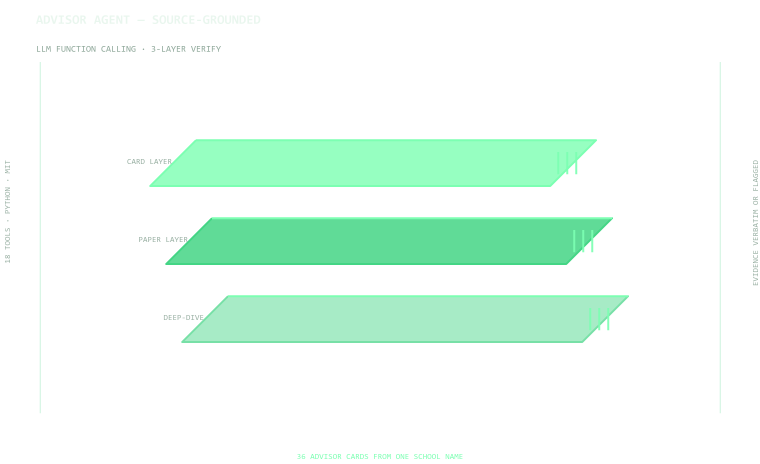
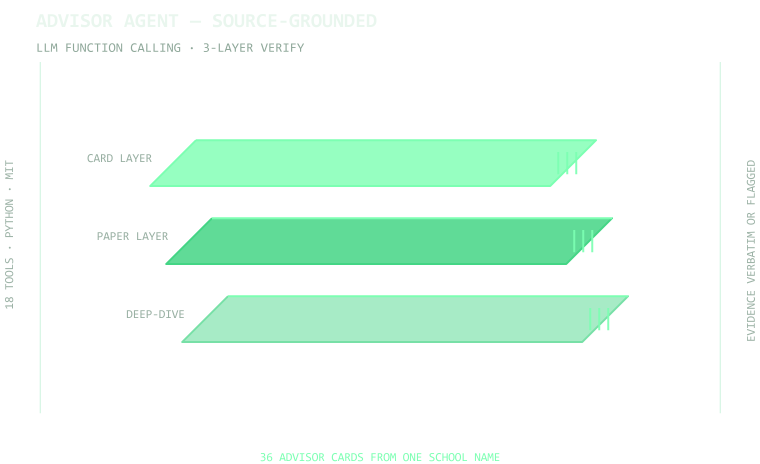
对齐配图字号与层标签间距：标题墨高 14px 与既有配图一致，标签与色板保持 23px 间隙且无像素相交

diff --git a/tools/make_fig_advisor.py b/tools/make_fig_advisor.py
@@ -76,6 +76,20 @@ def vtext(text, f, fill):
     return tile.rotate(90, expand=True)
 
 
+def label_tile(text, f, fill):
+    """把一段文字渲染成紧贴墨迹的图块，返回 (tile, 墨迹 bbox)。"""
+    pad = s(4)
+    box = f.getbbox(text)
+    tile = Image.new("RGBA", (box[2] - box[0] + 2 * pad, box[3] - box[1] + 2 * pad), (0, 0, 0, 0))
+    ImageDraw.Draw(tile).text((pad - box[0], pad - box[1]), text, font=f, fill=fill)
+    return tile, tile.getbbox()
+
+
+def plate_left_ss(i, y_ss):
+    """第 i 层色板左斜边在高度 y_ss 处的 x（超采样坐标）。"""
+    return s(196 + 16 * i) - (y_ss - s(140 + 78 * i))
+
+
 def downscale(img):
     """4x4 块均值降采样（浮点预乘，数学上精确复原色板值）。
 
@@ -125,32 +139,45 @@ def main():
             img, ticks(L["y"], x0, 400, 46, 46, EM_HI + (235,))
         )
 
+    # 字号按参照图实测的"墨高"标定（fig-bear 标题行高 13px、副标题 9px、注释 8px）；
+    # Consolas 大写字母墨高约 0.64em，故 20px→13px、13px→8px、12px→7.6px。
+    TITLE_PX, SUB_PX, SMALL_PX = 20, 13, 12
+
     # ---- 文字 ----
     txt = Image.new("RGBA", img.size, (0, 0, 0, 0))
     d = ImageDraw.Draw(txt)
 
     # 左上两行标题
-    draw_text(d, (36, 14), "ADVISOR AGENT — SOURCE-GROUNDED", font(FONT_B, 13), INK)
-    draw_text(d, (36, 45), "LLM FUNCTION CALLING · 3-LAYER VERIFY", font(FONT, 9), DIM)
+    draw_text(d, (36, 12), "ADVISOR AGENT — SOURCE-GROUNDED", font(FONT_B, TITLE_PX), INK)
+    draw_text(d, (36, 42), "LLM FUNCTION CALLING · 3-LAYER VERIFY", font(FONT, SUB_PX), DIM)
 
-    # 每层左侧的小标签（右对齐到版心细线内侧）
+    # 每层左侧的小标签：按"实际墨迹边缘"定位，保证标签底端与色板斜边仍有充足间隙。
+    # 注意 getbbox 不含抗锯齿晕边，且斜边在标签底端处最靠右，故按底端 + 晕边余量再退
+    # GAP_PX，确保视觉上不贴边。
+    GAP_PX = 22
     for i, L in enumerate(layers):
-        draw_text(d, (172 + i * 16, L["y"] + 18), L["label"], font(FONT, 8), DIM + (230,), anchor="ra")
+        tile, ink = label_tile(L["label"], font(FONT, SMALL_PX), DIM + (235,))
+        ink_h = ink[3] - ink[1]
+        target_top = s(L["y"] + 18) - ink_h // 2          # 墨迹垂直居中于该层
+        target_bottom = target_top + ink_h
+        target_right = plate_left_ss(i, target_bottom) - s(GAP_PX)
+        img.alpha_composite(tile, (target_right - ink[2], target_top - ink[1]))
 
     # 底部关键结论
     draw_text(
-        d, (W // 2, 453), "36 ADVISOR CARDS FROM ONE SCHOOL NAME",
-        font(FONT, 8), EM_HI, anchor="ma",
+        d, (W // 2, 452), "36 ADVISOR CARDS FROM ONE SCHOOL NAME",
+        font(FONT, SMALL_PX), EM_HI, anchor="ma",
     )
 
     img = Image.alpha_composite(img, txt)
 
-    # 左右竖排注释
-    for text, x, anchor_y in (
-        ("18 TOOLS · PYTHON · MIT", 2, 157),
-        ("EVIDENCE VERBATIM OR FLAGGED", W - 10, 157),
+    # 左右竖排注释（右侧按"右边缘"对齐，避免旋转后的字块被画布裁掉）
+    for text, side, anchor_y in (
+        ("18 TOOLS · PYTHON · MIT", "left", 157),
+        ("EVIDENCE VERBATIM OR FLAGGED", "right", 157),
     ):
-        tile = vtext(text, font(FONT, 8), DIM + (225,))
+        tile = vtext(text, font(FONT, SMALL_PX), DIM + (225,))
+        x = 2 if side == "left" else W - 2 - tile.width / SS
         img.alpha_composite(tile, (s(x), s(anchor_y)))
 
     img = downscale(img)
